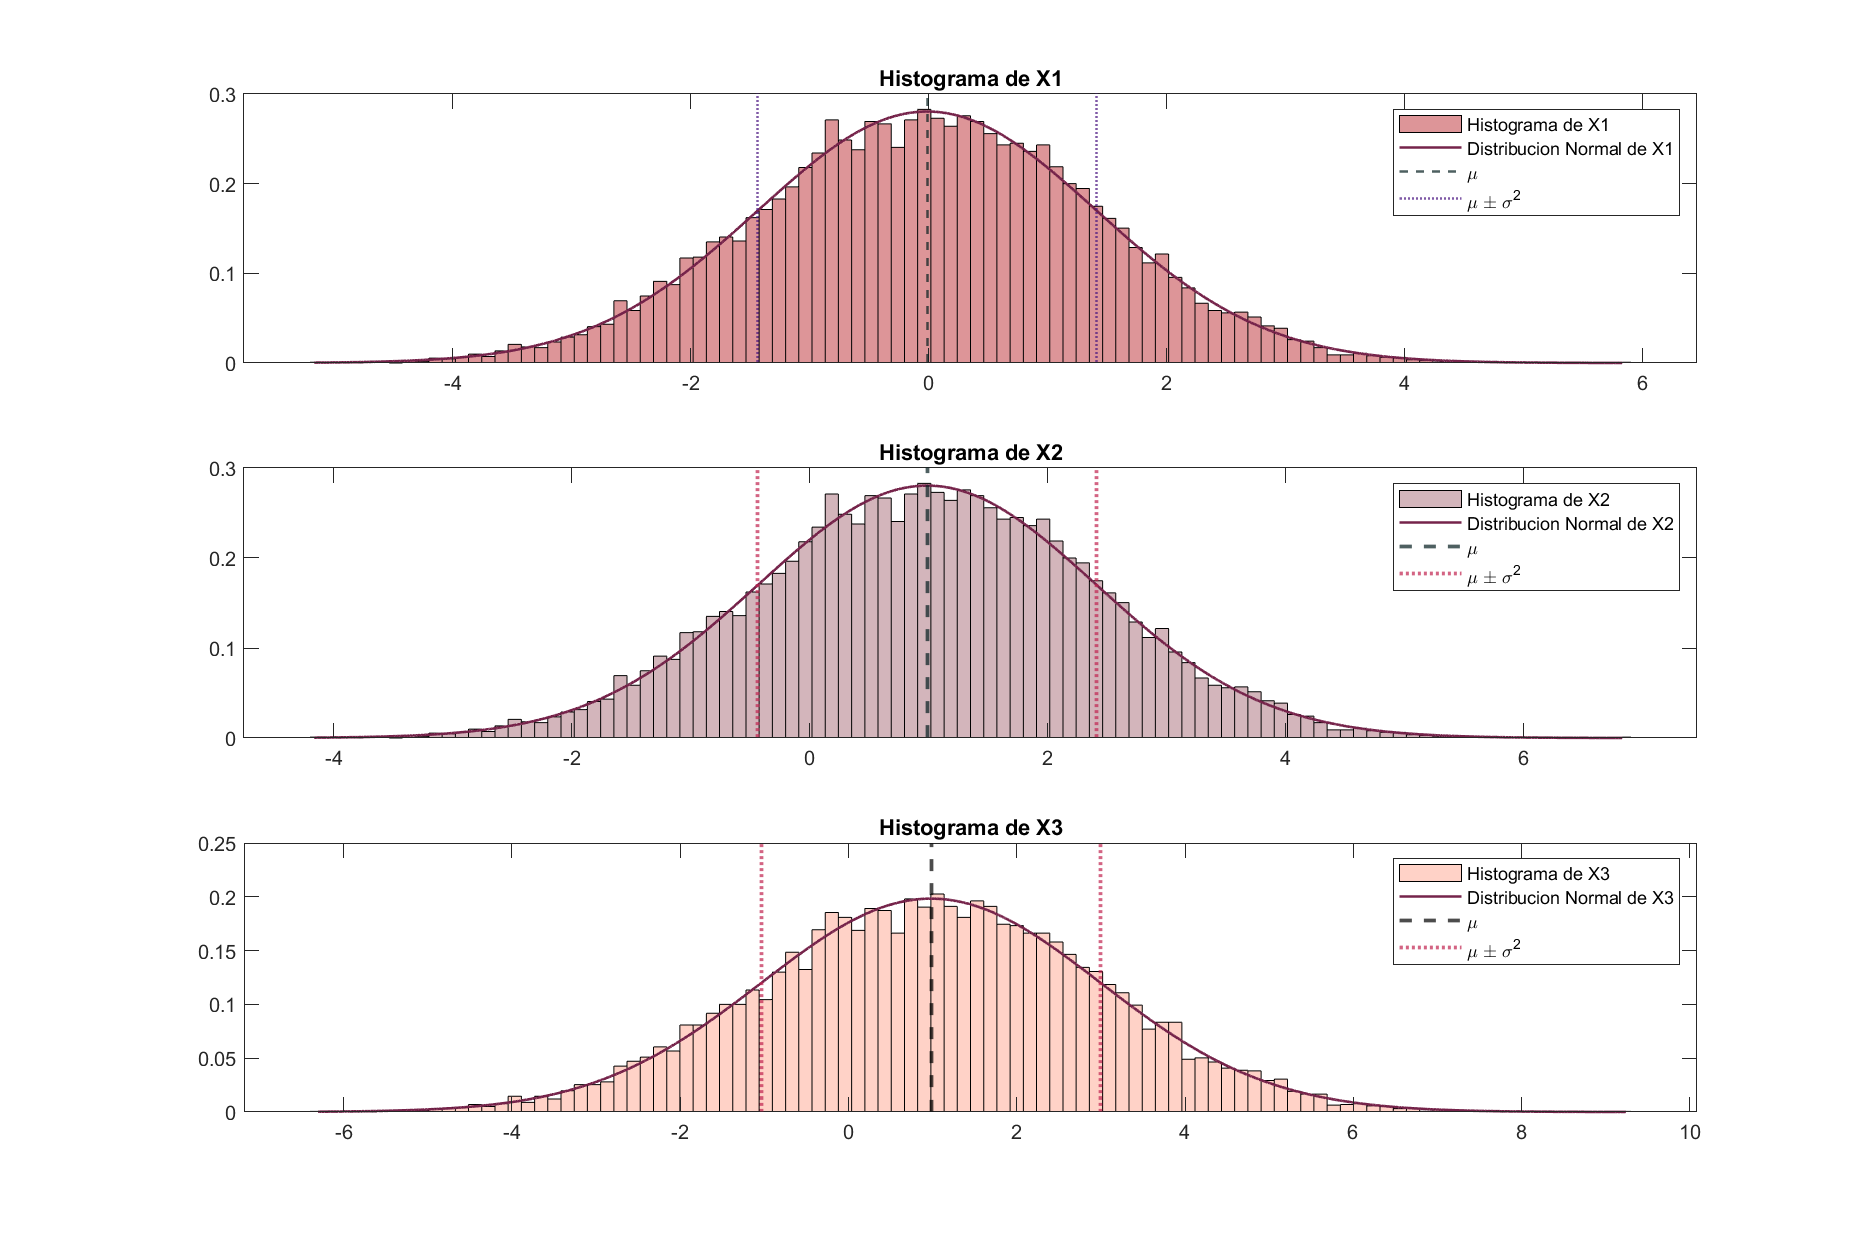
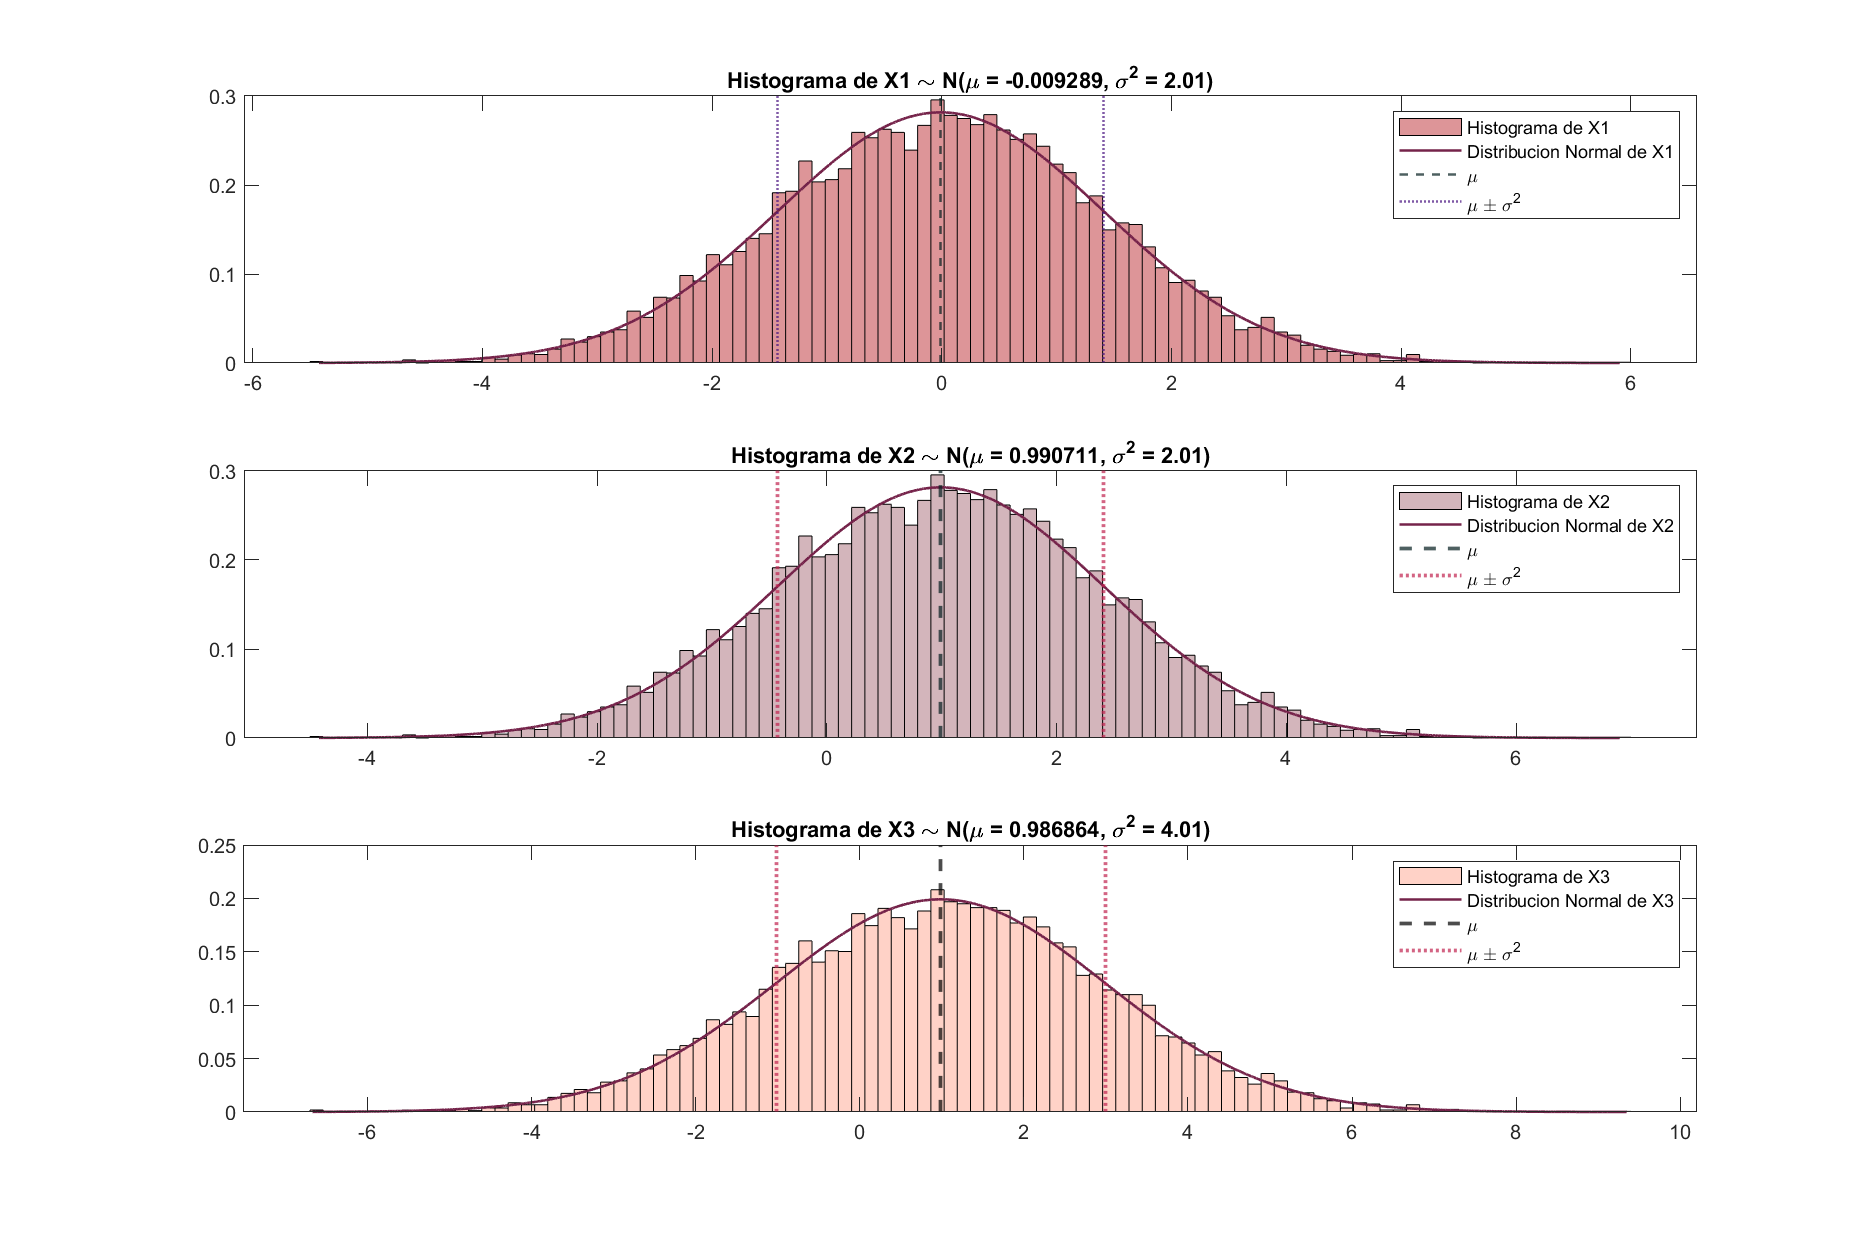
Imagenes nuevas con mu y sigma 1.c

diff --git a/TP1/Punto1c.m b/TP1/Punto1c.m
@@ -32,7 +32,7 @@ figure('Position', [100, 100, 1200, 800]); % Aumentar el tamaño de la figura
 subplot(3,1,1);
 histogram(X1, bines, 'Normalization', 'pdf', 'FaceColor', '#c74f54');
 hold on
-title('Histograma de X1');
+title(sprintf('Histograma de X1 \\sim N(\\mu = %f, \\sigma^{2} = %.2f)', MeanX1, VarX1));
 z1 = normpdf(y1, MeanX1, sqrt(VarX1));
 plot(y1, z1, 'r', 'LineWidth', 1.25, 'Color', '#75234a');
 xline(MeanX1, '--', 'Color', '#031D1E', 'LineWidth', 1.25);
@@ -44,19 +44,19 @@ legend('Histograma de X1', 'Distribucion Normal de X1', '\mu', '\mu \pm \sigma^2
 subplot(3,1,2);
 histogram(X2, bines, 'Normalization', 'pdf', 'FaceColor', '#b5838d');
 hold on
-title('Histograma de X2');
+title(sprintf('Histograma de X2 \\sim N(\\mu = %f, \\sigma^{2} = %.2f)', MeanX2, VarX2))
 z2 = normpdf(y2, MeanX2, sqrt(VarX2));
 plot(y2, z2, 'r', 'LineWidth', 1.25, 'Color', '#75234a');
 xline(MeanX2, '--', 'Color', '#031D1E', 'LineWidth', 1.75);
 xline(MeanX2 - sqrt(VarX2), ':', 'Color', '#c1224f', 'LineWidth', 1.75);
 xline(MeanX2 + sqrt(VarX2), ':', 'Color', '#c1224f', 'LineWidth', 1.75);
-legend('Histograma de X2', 'Distribucion Normal de X2', '\mu', '\mu \pm \sigma^2');
+legend('Histograma de X2', 'Distribucion Normal de X2', '\mu' , '\mu \pm \sigma^2');
 
 %Histograma de X3
 subplot(3,1,3);
 histogram(X3, bines, 'Normalization', 'pdf', 'FaceColor', '#FFB4A2');
 hold on
-title('Histograma de X3');
+title(sprintf('Histograma de X3 \\sim N(\\mu = %f, \\sigma^{2} = %.2f)', MeanX3, VarX3));
 z3 = normpdf(y3, MeanX3, sqrt(VarX3));
 plot(y3, z3, 'r', 'LineWidth', 1.25, 'Color', '#75234a');
 xline(MeanX3, '--', 'Color', 'k', 'LineWidth', 1.75);
